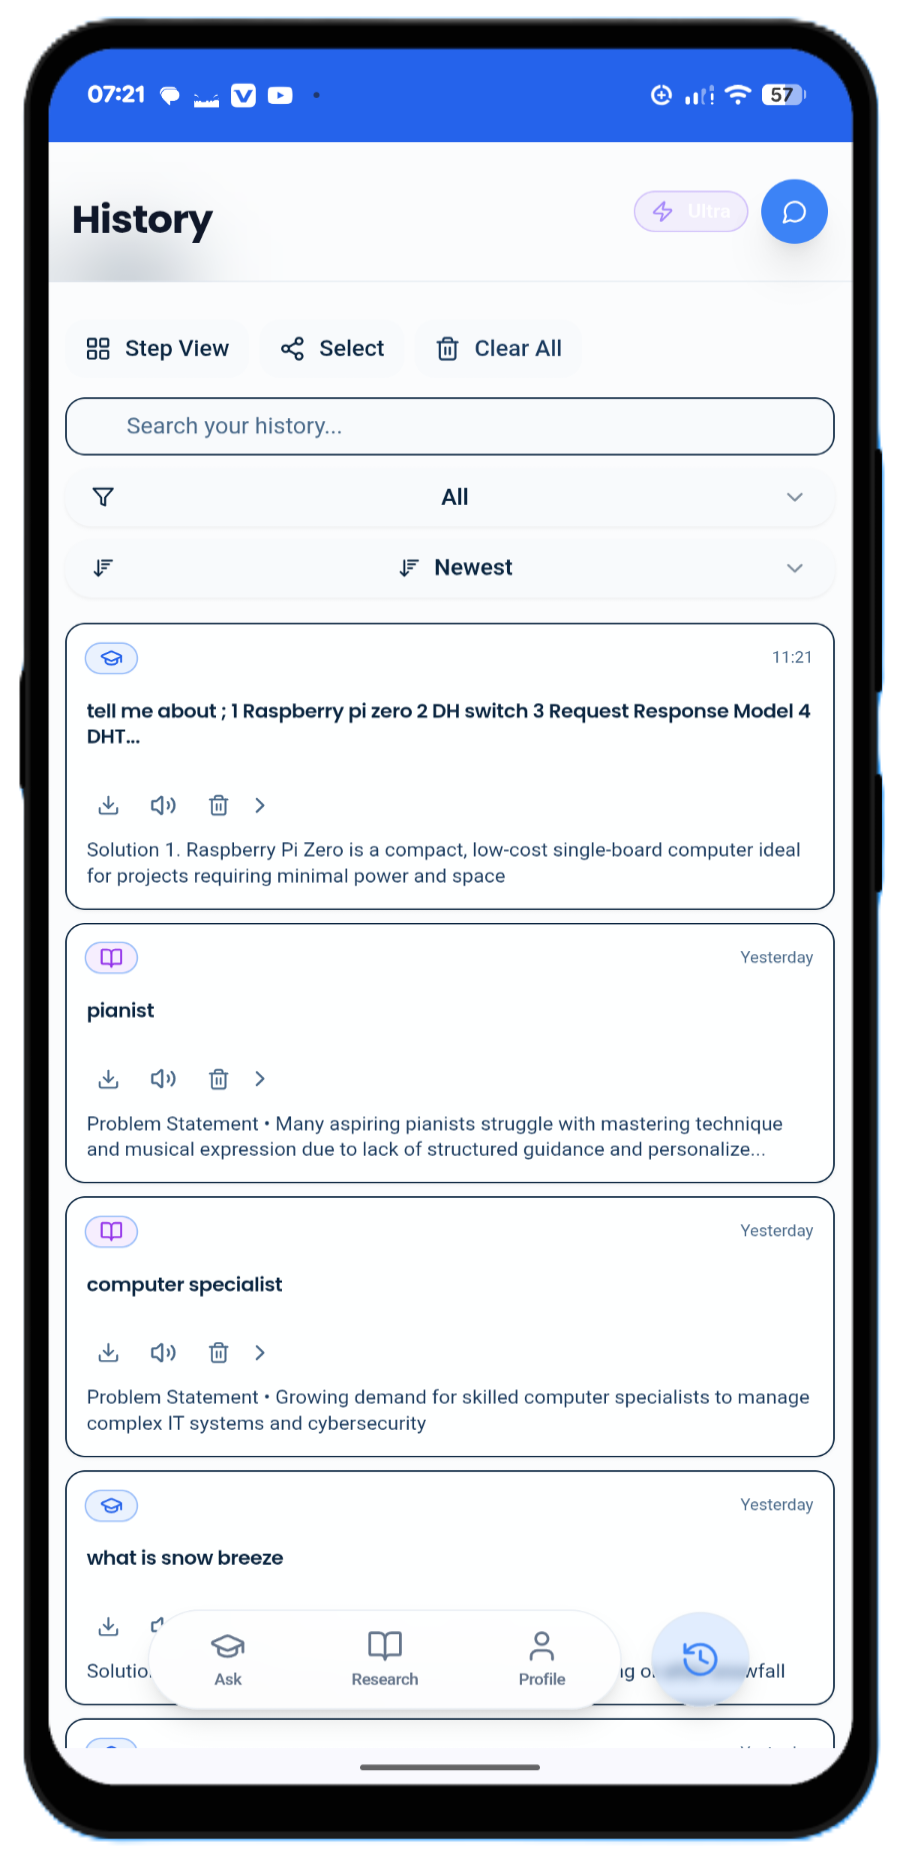
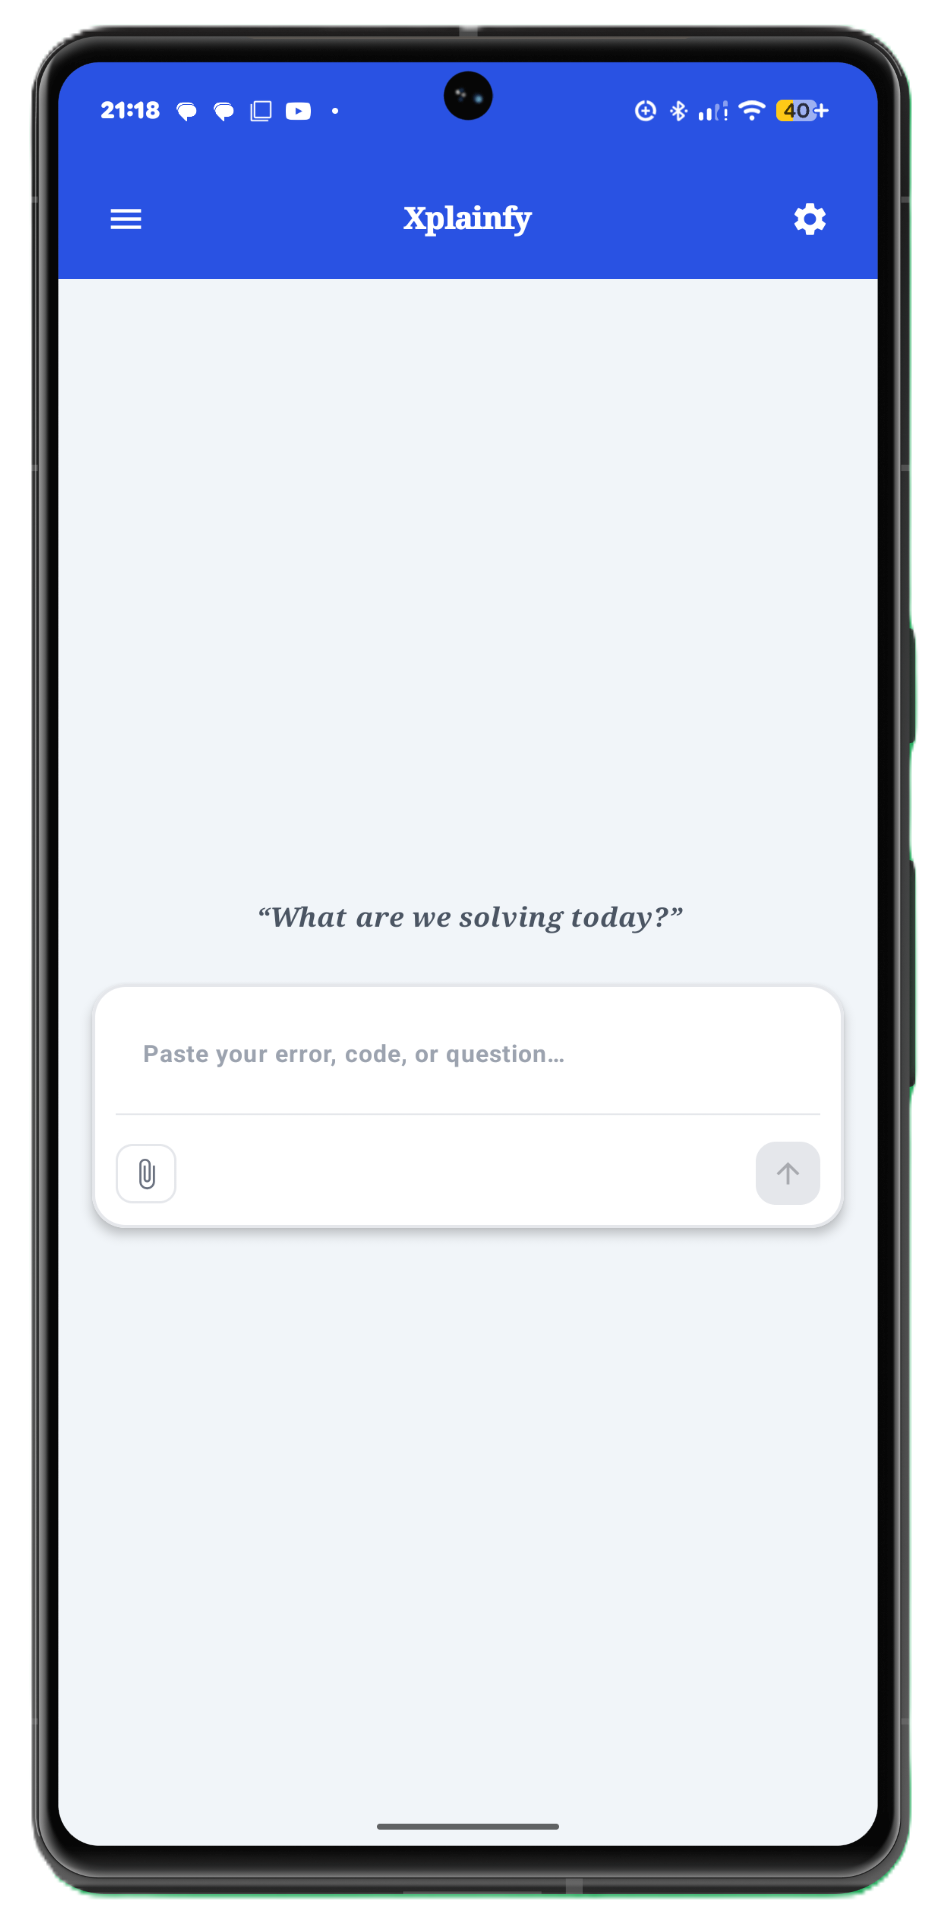
Mockup 2

diff --git a/src/components/Hero.tsx b/src/components/Hero.tsx
@@ -1,8 +1,46 @@
-import { motion } from "framer-motion";
+import { AnimatePresence, motion } from "framer-motion";
+import { useEffect, useState } from "react";
 import { Button } from "@/components/ui/button";
 import { ArrowRight, Download } from "lucide-react";
+import Android_1 from "@/images/Mockup_Android_1.png?url";
+import Android_2 from "@/images/Mockup_Android_2.png?url";
+import Android_3 from "@/images/Mockup_Android_3.png?url";
 import Desktop_1 from "@/images/Mockup_Desktop_1.png?url";
-import Mobile_1 from "@/images/Mockup_Android_1.png?url";
+import Desktop_2 from "@/images/Mockup_Desktop_2.png?url";
+import Desktop_3 from "@/images/Mockup_Desktop_3.png?url";
+
+const androidSlides = [Android_1, Android_2, Android_3];
+const desktopSlides = [Desktop_1, Desktop_2, Desktop_3];
+
+const HeroSlideshow = ({ slides, alt, className = "" }: { slides: string[]; alt: string; className?: string }) => {
+  const [activeSlide, setActiveSlide] = useState(0);
+
+  useEffect(() => {
+    const interval = window.setInterval(() => {
+      setActiveSlide((currentSlide) => (currentSlide + 1) % slides.length);
+    }, 4000);
+
+    return () => window.clearInterval(interval);
+  }, [slides.length]);
+
+  return (
+    <div className={`relative grid ${className}`}>
+      <AnimatePresence initial={false} mode="wait">
+        <motion.img
+          key={slides[activeSlide]}
+          src={slides[activeSlide]}
+          alt={alt}
+          initial={{ x: "100%" }}
+          animate={{ x: 0 }}
+          exit={{ x: "-100%" }}
+          transition={{ duration: 0.6, ease: "easeInOut" }}
+          className="col-start-1 row-start-1 w-full h-auto"
+          loading="lazy"
+        />
+      </AnimatePresence>
+    </div>
+  );
+};
 
 const Hero = () => {
   const containerVariants = {
@@ -89,19 +127,14 @@ const Hero = () => {
             className="hidden lg:flex justify-end"
           >
             <div className="relative w-full max-w-2xl flex gap-4 items-center justify-end">
-              {/* Desktop View: Show Android Image */}
+              {/* Desktop View: Show Android Slideshow */}
               <div className="rounded-xl overflow-hidden shadow-soft border border-slate-200">
-                <img
-                  src={Mobile_1}
-                  alt="Xplainfy Mobile"
-                  className="w-full h-auto max-w-sm"
-                  loading="lazy"
-                />
+                <HeroSlideshow slides={androidSlides} alt="Xplainfy Mobile" className="max-w-sm" />
               </div>
             </div>
           </motion.div>
 
-          {/* MOBILE VIEW: Show Desktop Image */}
+          {/* MOBILE VIEW: Show Desktop Slideshow */}
           <motion.div
             variants={visualVariants}
             initial="hidden"
@@ -110,12 +143,7 @@ const Hero = () => {
             className="lg:hidden"
           >
             <div className="rounded-xl overflow-hidden shadow-soft border border-slate-200">
-              <img
-                src={Desktop_1}
-                alt="Xplainfy Desktop"
-                className="w-full h-auto"
-                loading="lazy"
-              />
+              <HeroSlideshow slides={desktopSlides} alt="Xplainfy Desktop" />
             </div>
           </motion.div>
         </div>
